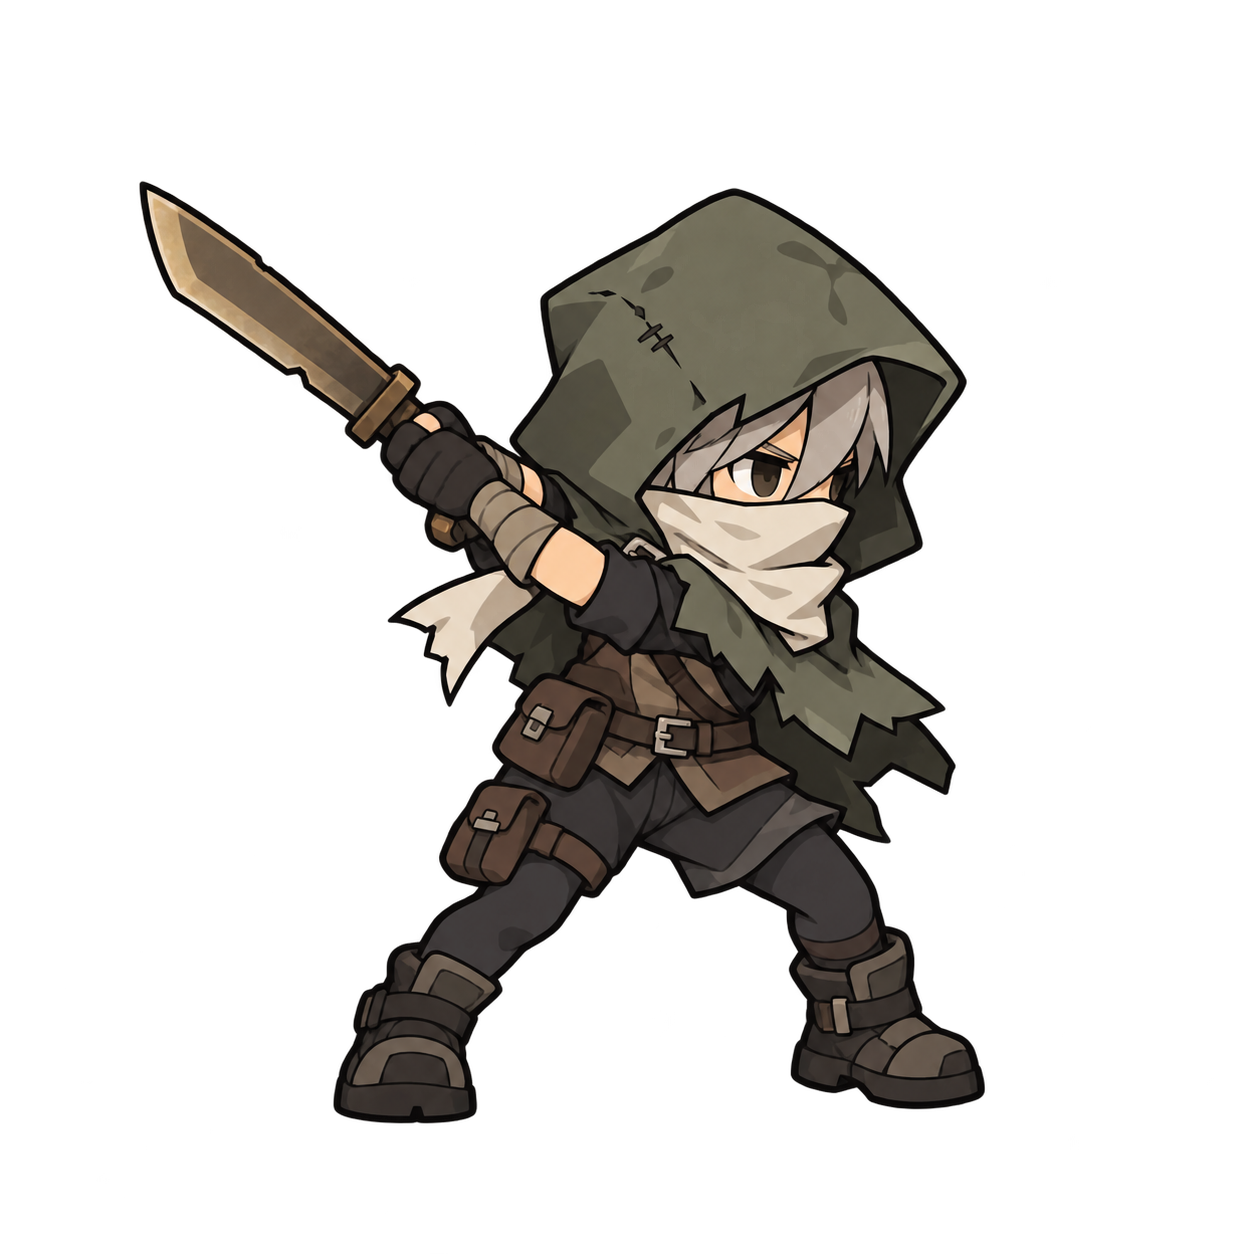
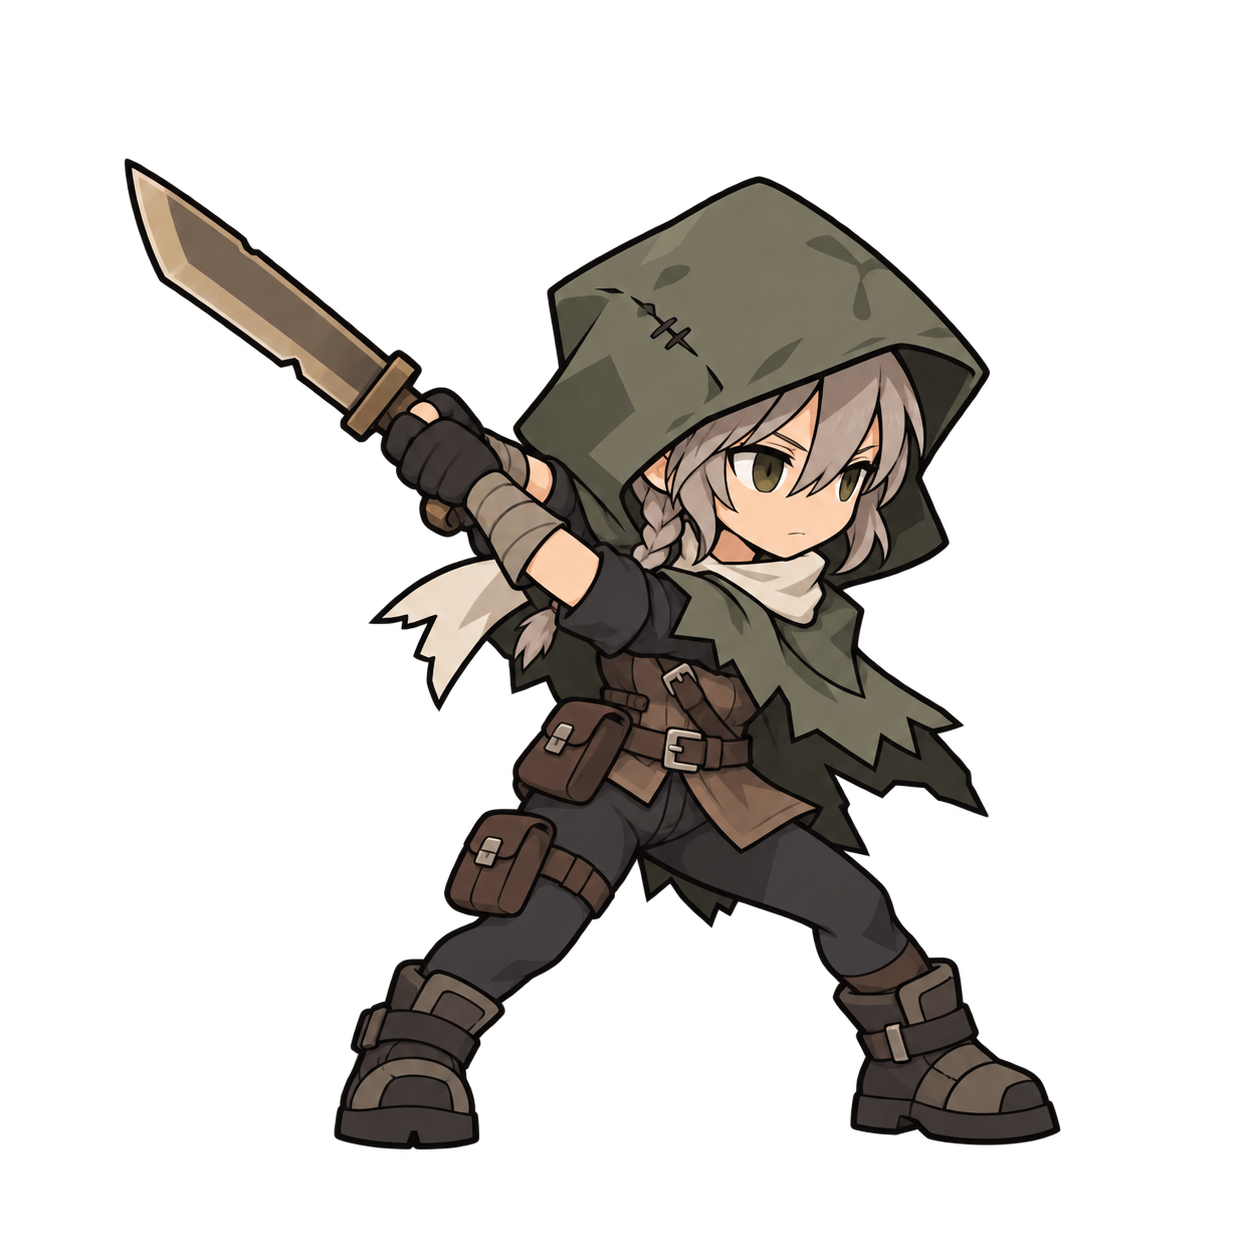
Use female scout and leader sprites and fix test assembly compatibility

Changed region(s): [[0.0933, 0.1244, 0.8397, 0.933], [0.4354, 0.1866, 0.5598, 0.311]]

diff --git a/Assets/Tests/EditMode/RoguelikeEnemyContentTests.cs b/Assets/Tests/EditMode/RoguelikeEnemyContentTests.cs
@@ -60,7 +60,7 @@ public class RoguelikeEnemyContentTests
         EnemyManager.Instance.ClearNulls();
         EnemyManager.Instance.Register(enemy);
 
-        Assert.That(EnemyManager.Instance.ActiveEnemies, Does.Not.Contain(enemy));
+        Assert.That(EnemyManager.Instance.ActiveEnemies, Has.No.Member(enemy));
         Assert.That(enemy.CanAct(), Is.False);
         enemy.AttackPlayer();
         Assert.That(enemy.hasDealtDamage, Is.False);
@@ -94,7 +94,7 @@ public class RoguelikeEnemyContentTests
         Assert.That(combat.AcceptsPlayerActions, Is.False,
             "Victory must lock input before the next frame.");
         EnemyManager.Instance.ClearNulls();
-        Assert.That(EnemyManager.Instance.ActiveEnemies, Does.Not.Contain(boss));
+        Assert.That(EnemyManager.Instance.ActiveEnemies, Has.No.Member(boss));
         Assert.That(visual.CurrentState, Is.EqualTo(RoguelikeEnemyPresentation.MotionState.Death));
 
         FieldInfo active = typeof(CombatController).GetField("combatActive", BindingFlags.Instance | BindingFlags.NonPublic);

diff --git a/docs/roguelike/enemy-art.md b/docs/roguelike/enemy-art.md
@@ -2,11 +2,13 @@
 
 `forth` 的战斗敌人使用本项目生成的原创 SD 角色。PRTS 的敌人模型仅用于观察头身、肩头比例、轮廓和动作节奏，没有把其贴图、骨骼、模型或动画导入本次新增资源。
 
+后续敌人统一采用女性形象；已完成的铜羽执刃者保留现有设计。女性角色通过脸部、发型与衣装剪影体现差异，并保持紧凑的战斗小人比例。
+
 | 遭遇 | 原创角色 | 视觉与动作 |
 | --- | --- | --- |
-| 普通 | 暮路拾荒者 | 橄榄色兜帽、象牙围巾、旧皮革背心与短直刀；轻快的前冲斩击 |
+| 普通 | 暮路拾荒者 | 女性斥候、短侧辫、橄榄色兜帽、象牙颈巾、皮革背心与短直刀；轻快的前冲斩击 |
 | 精英 | 铜羽执刃者 | 暗青分层礼装、象牙衬里、铜叶肩饰、交叉皮带与尖锐长剑；蓄势前冲刺击 |
-| 领袖 | 蚀月档案官 | 鸮形瓷面具、暗紫短披风、卷筒与环形短杖；克制的施法动作 |
+| 领袖 | 蚀月档案官 | 女性术师、紫色卷发与侧辫、鸮月瓷头饰、暗紫短披风、分层法衣、卷筒与环形短杖；克制的施法动作 |
 
 设计方向为约 3 头身、约 1.4–1.6 个头宽的肩部，使用清晰墨线和分块阴影。具体成图以资源预览为准。普通/精英/领袖可见高度约为 3.0/3.2/3.45 世界单位，与 forth 原主角的可见高度相近；级别差异主要来自装备与剪影。
 
